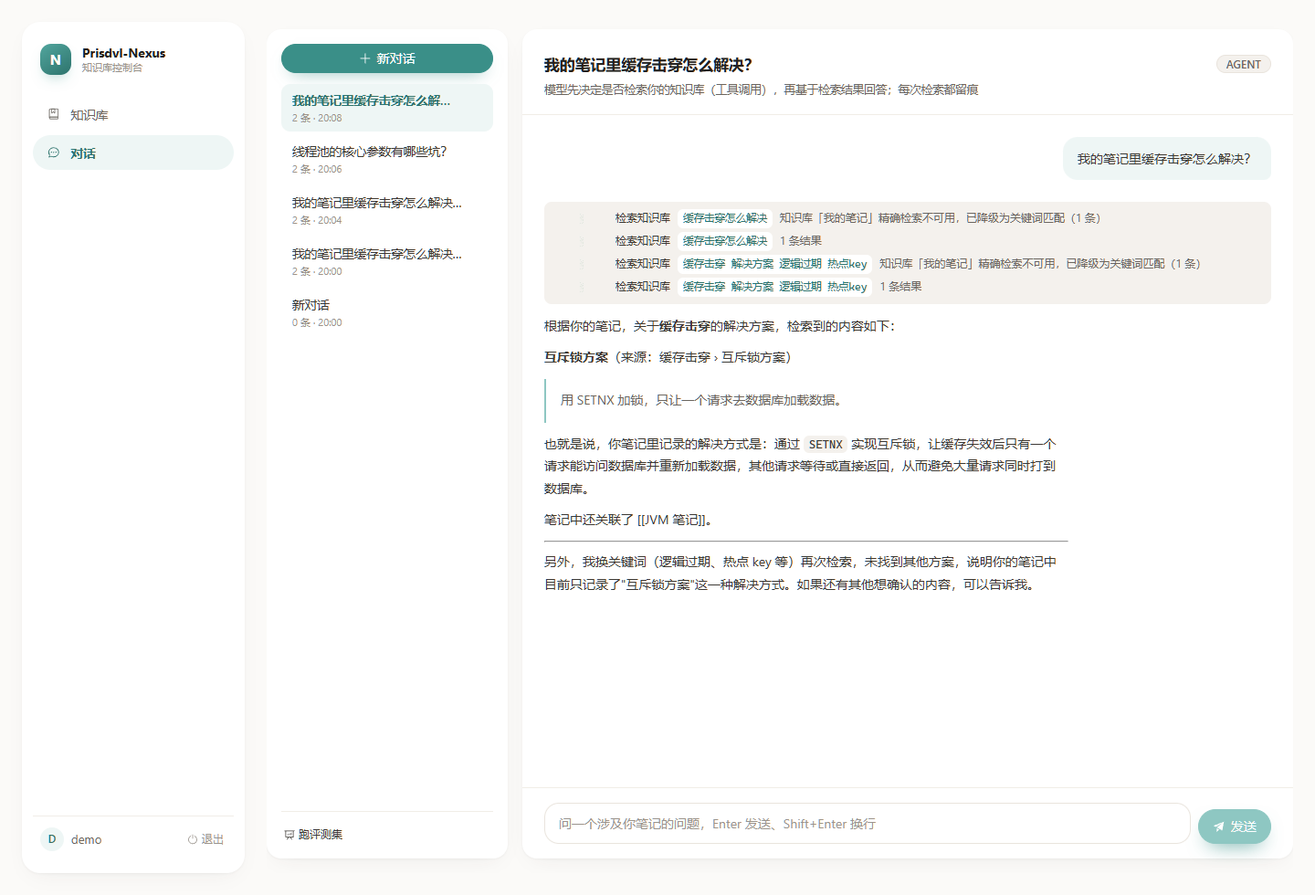
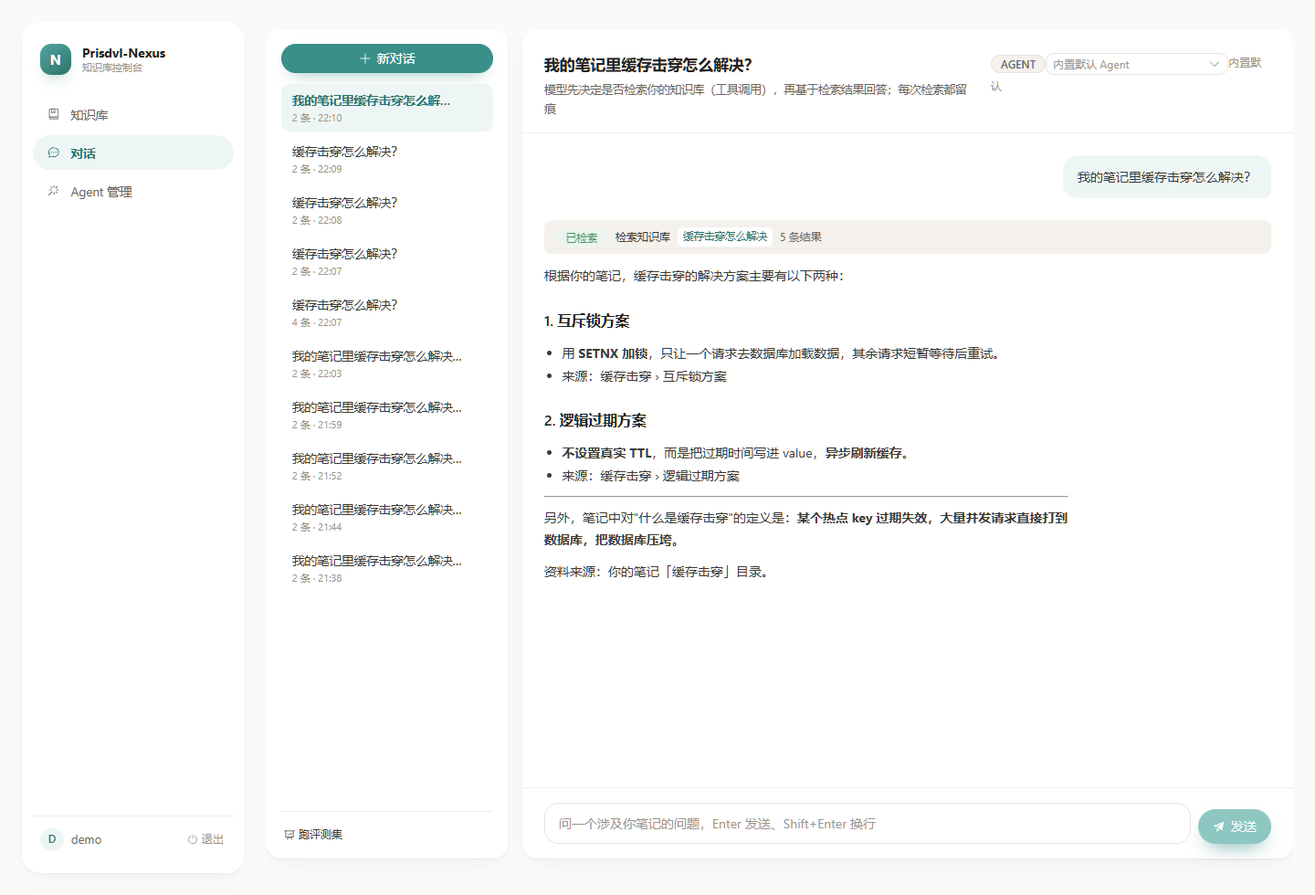
fix(local 真机栈): 两个后端死路 + 一张只活 41ms 的检索卡片——Docker 起来之后才看得见
Docker 起来后用 local profile（真 MySQL / ES+IK / pgvector / Redis / RabbitMQ）跑真机栈。
同一套代码只换 profile 就逼出三个缺陷：两个是"走真链路必现"的死路，一个是只有真浏览器
才看得见的渲染缺陷。三个都不是 4.2 引入的，而是被"无 ES + 无真模型"的环境掩盖着。

后端（产品修复）
- ChatMemoryConfig：Spring AI 的自动配置分别注入 JdbcTemplate 与 DataSource，本项目有两个
  数据源时方言（MySQL，反引号）与执行（Postgres）错位 → local 下所有流式对话首轮即失败。
  改为显式声明仓库，方言与执行都从同一个 @Qualifier("dataSource") 推导。
- EmbeddingClientFactory：工具调用跑在 Reactor boundedElastic 的虚拟线程上，那里的 TCCL 是
  JDK 的 AppClassLoader，看不见 fat jar 内 BOOT-INF/lib 里的 embedding-model-dimensions.properties
  → AbstractEmbeddingModel 静态初始化失败，且该类在 JVM 内永久不可用（之后连 HTTP 线程上的
  向量化接口也变 NoClassDefFoundError）。改为构建期间显式换 TCCL（try/finally 还原）；
  没有去改 Schedulers（爆炸半径远大于问题本身）。

前端（产品修复）
- AgentView.vue：RAG 的"检索到 N 个片段"在真机上只活 41ms（实测 timeline：APPEAR @6389ms /
  GONE @6430ms）——整段回答一口气到达后，流的"校正"会覆盖掉未落库的命中。改为按
  assistantMessageId 贴回；本次会话内回看不再丢，刷新仍会丢（命中未落库，见 B.37 §7）。

测试侧（是测试自己的问题，不是产品缺陷）
- verify-agents.mjs 腿⑩ 假失败：页面挂载会自动选中最近一次会话，`.composer-options` 随
  头部选择器出现而被替换，点开的下拉跟着消失 → 报成"下拉项没出现"。改为像腿⑥ 一样先点
  "新对话"（同时置位 pickedByUser，用应用自己的既定机制）。
- verify-frontend.mjs 去掉不实的"（standalone，无 Docker）"表述。

文档
- decisions.md 新增 B.37：实测口径与证据（探针输出、41ms timeline、fat jar 静默不更新的判据、
  demo token 30 分钟 TTL）。
- baseline 新增 §9.6：把 §9.3–§9.5 那几个 UNAVAILABLE 的"当前状态"升级为实测，
  历史判定不改写、只补回链；§十 第 2 项 ES/pgvector 真机行为标记为实测关闭（部分）。
- README：退出码说明补上"full 栈已经跑过"，并写明检索卡片只在本次会话内保留、
  full 栈 ≠ 部署形态也验了。

验证（分层，不合并口径）
- 全量回归 335 运行 / 317 通过 / 18 跳过 / 0 失败 / 0 错误，BUILD SUCCESS
  （与 4.2 同一数字，说明本轮两处修法无回归）
[…]

diff --git a/web/src/views/AgentView.vue b/web/src/views/AgentView.vue
@@ -220,16 +220,18 @@ async function loadConversations() {
  * 注意：这里不带 retrieval。RAG 的命中片段目前<b>只在本次流里可见</b>——它没有随消息落库
  * （chat_message 只存正文与工具痕迹），因此刷新后不显示。这是已知缺口，不是渲染 bug：
  * 若要回放，需要把命中片段写进消息 metadata（与 Agent 的工具痕迹同一处）。
+ * 本次会话内不丢：见 send() 结尾按 assistantMessageId 把命中片段贴回来的那几行。
  */
 function toItems(list: Array<{ id: string; role: string; content: string | null; toolCalls: MessageToolCall[] }>) {
   return list
     .filter((message) => message.role === 'USER' || message.role === 'ASSISTANT')
     .filter((message) => (message.content ?? '').length > 0 || message.toolCalls.length > 0)
-    .map((message) => ({
+    .map((message): ChatItem => ({
       id: message.id,
       role: message.role as 'USER' | 'ASSISTANT',
       content: message.content ?? '',
       toolCalls: message.toolCalls ?? [],
+      retrieval: null,
       streaming: false
     }))
 }
@@ -325,6 +327,9 @@ async function send(preset?: string) {
   const controller = new AbortController()
   abortController.value = controller
 
+  // 本轮的助手消息 id（meta 事件给）：流结束后要用它把检索卡片贴回"校正过"的那条消息
+  let assistantMessageId = ''
+
   try {
     await streamChat(
       conversationId,
@@ -332,6 +337,7 @@ async function send(preset?: string) {
       {
         onMeta: (meta) => {
           requestId.value = meta.requestId
+          assistantMessageId = meta.assistantMessageId
         },
         onRetrieval: (retrieval) => {
           // 检索事件早于第一个 delta：用户先看到"检索到 N 个片段"，再看回答逐字出现
@@ -380,6 +386,16 @@ async function send(preset?: string) {
     abortController.value = null
     // 用服务端数据校正一次（真实 id、真实工具痕迹），同时刷新会话列表的顺序与标题
     await reloadActiveConversation()
+    // 检索卡片必须活过这次校正：服务端不存命中片段（见 toItems 的注释），校正会把本地这份冲掉。
+    // 这一点是**真机跑出来的**（2026-09-30，见 decisions.md B.37）：本地服务+本地模型下
+    // 整段回答一口气到达，卡片在 DOM 里只活了 41ms 就被冲掉——用户等于从没见过它；
+    // 而在无 ES 的 standalone 里这条链路根本走不到，所以之前没暴露。
+    // 按 assistantMessageId 贴回去，至少保证"本次会话里回看得到"；刷新页面仍会丢，
+    // 那是同一个已知缺口（要彻底解决得把命中片段落库，与工具痕迹同处）。
+    if (answer.retrieval && assistantMessageId) {
+      const reloaded = items.value.find((item) => item.id === assistantMessageId)
+      if (reloaded) reloaded.retrieval = answer.retrieval
+    }
   }
 }
 

diff --git a/nexus-ai/src/main/java/com/lky/nexus/ai/model/EmbeddingClientFactory.java b/nexus-ai/src/main/java/com/lky/nexus/ai/model/EmbeddingClientFactory.java
@@ -14,6 +14,7 @@ import org.springframework.util.StringUtils;
 
 import java.util.Map;
 import java.util.concurrent.ConcurrentHashMap;
+import java.util.function.Supplier;
 
 /**
  * 嵌入客户端工厂：业务代码通过<b>逻辑角色</b>获取 {@link EmbeddingClient}（ADR-003）。
@@ -73,17 +74,55 @@ public class EmbeddingClientFactory {
                     "模型 %s 未声明 EMBEDDING 能力，不能用于嵌入角色 %s".formatted(ref.value(), role));
         }
 
-        EmbeddingModel model = switch (provider.getType()) {
+        EmbeddingModel model = buildWithApplicationClassLoader(() -> switch (provider.getType()) {
             case OLLAMA -> buildOllamaEmbeddingModel(provider, entry);
             case OPENAI_COMPATIBLE -> throw new BusinessException(ErrorCode.MODEL_ROLE_NOT_CONFIGURED,
                     ("嵌入角色 %s 指向了 OpenAI 兼容协议的模型 %s，这是当前尚未支持的路径"
                             + "（Spring AI 2.0 需要自行构建官方 SDK 客户端）。"
                             + "请把 embedding.default 指向 Ollama 模型，例如 ollama:bge-m3。")
                             .formatted(role, ref.value()));
-        };
+        });
 
         log.info("为角色 {} 构建嵌入客户端：{}（声明维度 {}）", role, ref.value(), entry.getDimensions());
         return new EmbeddingClient(ref.value(), model, entry.getDimensions());
+    }
+
+    /**
+     * 在**应用类加载器**下执行模型构建（这里只有构建，没有网络调用）。
+     *
+     * <p><b>为什么需要这段"换类加载器"的代码</b>——`local` profile 实测踩到，2026-09-30：
+     * Spring AI 的 {@code AbstractEmbeddingModel} 在<b>静态初始化</b>里要读一张"已知模型维度表"：
+     * <pre>
+     * new ClassPathResource("/embedding/embedding-model-dimensions.properties")
+     * </pre>
+     * 而 {@code ClassPathResource} 内部走 {@code ClassUtils.getDefaultClassLoader()}，**优先取线程上下文类加载器（TCCL）**。
+     * 在 Spring Boot 可执行 jar 里，这个资源在 {@code BOOT-INF/lib/spring-ai-model-*.jar} <b>内部</b>，
+     * 只有 Boot 的 {@code LaunchedClassLoader} 看得见；而工具调用跑在 Reactor {@code boundedElastic} 的
+     * **虚拟线程**上，实测那里的 TCCL 是 JDK 的 {@code AppClassLoader}（只看得见 fat jar 根目录）：
+     * <pre>
+     * PROBE thread=VirtualThread[#152,loomBoundedElastic-14]/runnable@ForkJoinPool-1-worker-2
+     *       ambientTCCL=jdk.internal.loader.ClassLoaders$AppClassLoader@6bc7c054 ambientResolves=false
+     *       appLoader  =org.springframework.boot.loader.launch.LaunchedClassLoader@1a6c5a9e appResolves=true
+     * </pre>
+     * 于是静态初始化直接抛
+     * {@code IllegalStateException: the embedding dimensions properties file must exist}；
+     * 更麻烦的是这个失败**一次性且全局**：类初始化失败后整个 JVM 里该类永久不可用，
+     * 之后连 Tomcat 线程上的"向量化"接口也一起变成
+     * {@code NoClassDefFoundError: Could not initialize class org.springframework.ai.ollama.OllamaEmbeddingModel}。
+     *
+     * <p>也就是说：谁先第一次碰到这个类，就决定了整条链路能不能用——而这不该取决于"第一个请求从哪条线程进来"。
+     * 这里在构建期间显式把 TCCL 换成应用类加载器，把结果变成确定的：HTTP 线程、流式虚拟线程、
+     * 以后的定时任务都一样能读到那个资源（虚拟线程允许改 TCCL，JDK 21 实测可行）。
+     */
+    private EmbeddingModel buildWithApplicationClassLoader(Supplier<EmbeddingModel> builder) {
+        Thread thread = Thread.currentThread();
+        ClassLoader original = thread.getContextClassLoader();
+        try {
+            thread.setContextClassLoader(EmbeddingClientFactory.class.getClassLoader());
+            return builder.get();
+        } finally {
+            thread.setContextClassLoader(original);
+        }
     }
 
     /** Ollama 原生协议：模型名可带冒号（如 {@code bge-m3}），base-url 由 {@link OllamaApi} 承载。 */

diff --git a/nexus-app/src/main/java/com/lky/nexus/app/chat/config/ChatMemoryConfig.java b/nexus-app/src/main/java/com/lky/nexus/app/chat/config/ChatMemoryConfig.java
@@ -3,17 +3,23 @@ package com.lky.nexus.app.chat.config;
 import org.springframework.ai.chat.memory.ChatMemory;
 import org.springframework.ai.chat.memory.ChatMemoryRepository;
 import org.springframework.ai.chat.memory.MessageWindowChatMemory;
+import org.springframework.ai.chat.memory.repository.jdbc.JdbcChatMemoryRepository;
+import org.springframework.beans.factory.annotation.Qualifier;
 import org.springframework.beans.factory.annotation.Value;
 import org.springframework.context.annotation.Bean;
 import org.springframework.context.annotation.Configuration;
+import org.springframework.jdbc.core.JdbcTemplate;
+import org.springframework.transaction.PlatformTransactionManager;
+
+import javax.sql.DataSource;
 
 /**
  * 会话记忆（Chat Memory）装配。
  *
  * <p>这里显式声明 {@link ChatMemory}，而不是完全依赖 Spring AI 的自动配置，
- * 原因是我们需要自己控制<b>窗口大小</b>（可配置），并让"用哪个仓库"这件事在代码里可见：
- * 引入 {@code spring-ai-starter-model-chat-memory-repository-jdbc} 后，
- * 自动配置会提供 {@code JdbcChatMemoryRepository}，本 Bean 把它接进滑动窗口策略。
+ * 原因是我们需要自己控制<b>窗口大小</b>（可配置），并让"用哪个仓库"这件事在代码里可见。
+ *
+ * <p><b>仓库也必须显式声明</b>（下面第 2 个 Bean）——这条是血的教训，见下。
  *
  * <p>再次强调职责边界（ADR-011）：
  * <ul>
@@ -24,6 +30,43 @@ import org.springframework.context.annotation.Configuration;
  */
 @Configuration
 public class ChatMemoryConfig {
+
+    /**
+     * 会话记忆的存储仓库：**只用主数据源**（业务库），不依赖 Spring AI 的自动配置。
+     *
+     * <p>为什么必须自己声明（`local` profile 实测踩到，2026-09-30）：自动配置那个 Bean 的方法签名是
+     * {@code (JdbcTemplate, DataSource)}，它<b>分别注入两个 bean</b>——方言取自 DataSource，
+     * 执行用的 JdbcTemplate 取自 JdbcTemplate。本项目有<b>两个</b>数据源（业务 MySQL + 向量 Postgres），
+     * 而上下文里唯一的 JdbcTemplate 是 {@code vectorJdbcTemplate}，于是两者错位：
+     * 方言按 MySQL 生成（反引号），SQL 却发到 Postgres 执行——
+     * <pre>
+     * bad SQL grammar [SELECT content, type, `timestamp` FROM SPRING_AI_CHAT_MEMORY …]
+     * Caused by: org.postgresql.util.PSQLException: ERROR: syntax error at or near "FROM"
+     * </pre>
+     * 表现是**所有流式对话在 `local` 下直接失败**（H2 的两个 profile 里向量数据源被
+     * {@code nexus.vector.enabled=false} 关掉，只剩一个 JdbcTemplate，所以测试全绿、问题藏到最后）。
+     *
+     * <p>Spring AI 其实在启动时就警告过，只是夹在 INFO 里很容易漏掉：
+     * <pre>
+     * WARN …JdbcChatMemoryRepository$Builder - Explicitly set dialect MysqlChatMemoryRepositoryDialect
+     *      will be used instead of detected dialect PostgresChatMemoryRepositoryDialect from datasource
+     * </pre>
+     *
+     * <p>修法就是 {@code PrimaryDataSourceConfig} 那条既定规则的又一次应用：
+     * <b>多数据源场景下不要依赖自动配置</b>。这里方言与执行都从**同一个** DataSource 推导，
+     * 两者不可能再错位；显式 {@code @Qualifier("dataSource")} 而不是靠 {@code @Primary} 兜底，
+     * 因为本次故障的成因正是"靠上下文里的唯一候选去猜"。
+     */
+    @Bean
+    public JdbcChatMemoryRepository chatMemoryRepository(
+            @Qualifier("dataSource") DataSource dataSource,
+            PlatformTransactionManager transactionManager) {
+        return JdbcChatMemoryRepository.builder()
+                .jdbcTemplate(new JdbcTemplate(dataSource))
+                .dataSource(dataSource)
+                .transactionManager(transactionManager)
+                .build();
+    }
 
     @Bean
     public ChatMemory chatMemory(ChatMemoryRepository chatMemoryRepository,

diff --git a/docs/decisions.md b/docs/decisions.md
@@ -2008,6 +2008,174 @@ axios 因此抛出 `Request failed with status code 502`，而真正有用的那
 
 ---
 
+### B.37 真机栈（`local` profile）首次跑通：两个后端死路 + 一张"看不见的卡片"
+
+**背景**：Phase 4.2 收尾时 Docker（WSL2 后端）还不可用，所以 ES / pgvector / MySQL 那一层一直记着
+**UNAVAILABLE**，RAG 腿在 E2E 里只能跳过。用户把 Docker 起来后，第一次用 `local` profile 跑真机栈
+（MySQL 3307 / ES 9200 + analysis-ik / pgvector 5433 / Redis / RabbitMQ）。
+
+结果：**同一台机器、同一套代码，只换 profile，就逼出三个缺陷**——两个"只要走真链路就必现"的后端死路，
+一个真机才看得见的前端缺陷。这三个都不是 4.2 引入的，而是此前被"无 ES + 无真模型"的环境掩盖着。
+
+**1. `local` 下所有流式对话直接失败：ChatMemory 的方言与执行取到了两个不同的数据源（已修）**
+
+现象：`local` 下任何流式对话都在第一轮就失败，同步接口却正常。
+
+```
+bad SQL grammar [SELECT content, type, `timestamp` FROM SPRING_AI_CHAT_MEMORY …]
+Caused by: org.postgresql.util.PSQLException: ERROR: syntax error at or near "FROM"
+```
+
+方言按 **MySQL** 生成（反引号），SQL 却发到 **Postgres** 执行。根因在 Spring AI 自动配置那个 Bean 的
+签名（`javap` 读出来）：
+
+```java
+JdbcChatMemoryRepository jdbcChatMemoryRepository(JdbcTemplate jdbcTemplate, DataSource dataSource)
+// 内部：builder().jdbcTemplate(jdbcTemplate).dialect(JdbcChatMemoryRepositoryDialect.from(dataSource))
+```
+
+它是**分别注入两个 bean** 的——本项目有两个数据源（业务 MySQL + 向量 Postgres），而上下文里唯一的
+`JdbcTemplate` 是 `vectorJdbcTemplate`（Postgres），`@Primary` 的则是业务 DataSource，于是两者错位。
+
+Spring AI 其实启动时就警告过，只是夹在 INFO 里：
+
+```
+WARN JdbcChatMemoryRepository$Builder - Explicitly set dialect MysqlChatMemoryRepositoryDialect will be
+     used instead of detected dialect PostgresChatMemoryRepositoryDialect from datasource
+```
+
+**为什么只有 `local` 中招**：`standalone` / `test` 里 `nexus.vector.enabled=false` 关掉了第二个数据源，
+只剩一个 `JdbcTemplate`，两者天然一致——测试全绿，问题藏到最后一刻。修法是 `ChatMemoryConfig`
+里显式声明仓库，方言与执行都从**同一个** DataSource 推导（见该类的 javadoc），并显式
+`@Qualifier("dataSource")` 而不是靠 `@Primary` 兜底——本次故障的成因正是"靠上下文里的唯一候选去猜"。
+
+**教训**：`PrimaryDataSourceConfig` 里那条既定规则（**多数据源场景不要依赖自动配置**）又一次适用；
+另外"启动时的 WARN 不是噪音"，它当时就把答案写出来了。
+
+**2. `local` 下工具调用里的嵌入模型永久失效：虚拟线程的 TCCL 看不见 fat jar 里的资源（已修）**
+
+Agent 腿的流式对话超时，日志里是一条看着莫名其妙的链：
+
+```
+ToolExecutionException
+Caused by: ExceptionInInitializerError
+Caused by: IllegalStateException: the embedding dimensions properties file must exist
+    at AbstractEmbeddingModel.loadKnownModelDimensions(AbstractEmbeddingModel.java:80)
+    at AbstractEmbeddingModel.<clinit>(AbstractEmbeddingModel.java:47)
+    at EmbeddingClientFactory.buildOllamaEmbeddingModel(EmbeddingClientFactory.java:98)
+```
+
+而**同一个 JVM** 里 `POST /api/knowledge-bases/{id}/embed`（Tomcat 请求线程）刚刚成功过——
+所以不是"资源不存在"。加探针实测（构建时临时往 `create()` 里打一行，测完删除）：
+
+```
+PROBE thread=VirtualThread[#152,loomBoundedElastic-14]/runnable@ForkJoinPool-1-worker-2
+      isVirtual=true
+      ambientTCCL=jdk.internal.loader.ClassLoaders$AppClassLoader@6bc7c054      ambientResolves=false
+      appLoader  =org.springframework.boot.loader.launch.LaunchedClassLoader@1a6c5a9e appResolves=true
+```
+
+链条完全对上了：
+
+1. `AbstractEmbeddingModel` 的**静态初始化**要读
+   `new ClassPathResource("/embedding/embedding-model-dimensions.properties")`（`javap` 读了它的
+   `<clinit>`），而 `ClassPathResource` 内部走 `ClassUtils.getDefaultClassLoader()`，**优先取 TCCL**；
+2. Boot 的 fat jar 里这个资源在 `BOOT-INF/lib/spring-ai-model-2.0.1.jar` **内部**，只有
+   `LaunchedClassLoader` 看得见。实测：`ClassLoader.getSystemResource(…)` 对该路径返回 `null`
+   （同一 classpath 下 `BOOT-INF/lib/spring-ai-model-2.0.1.jar` 本身可见）;
+3. `spring.threads.virtual.enabled: true` 让 Reactor 的 `boundedElastic` 变成**虚拟线程**调度器
+   （`reactor-core-3.8.7` 的 `META-INF/versions/21/BoundedElasticSchedulerSupplier` 里就是
+   `Thread.ofVirtual().name("loomBoundedElastic-",1)…factory()`，日志里的线程名正是 `loomBoundedElastic-14`），
+   而工具调用就发生在 `FluxSubscribeOn → BoundedElasticThreadPerTaskScheduler$SchedulerTask.run` 上；
+   实测该虚拟线程的 TCCL 是 JDK 的 `AppClassLoader`，**不是** Boot 的 LaunchedClassLoader；
+4. 于是静态初始化失败。**而它是一次性且全局的**：类初始化失败后整个 JVM 里该类永久不可用，
+   之后连 Tomcat 线程上的"向量化"接口也一起变成
+   `NoClassDefFoundError: Could not initialize class org.springframework.ai.ollama.OllamaEmbeddingModel`
+   （这也是"为什么第一次是 IllegalStateException、再点就是 NoClassDefFoundError"的原因）。
+
+顺带用 `jshell` 把 JDK 语义测清楚了（避免写成"猜"）：虚拟线程**可以**改 TCCL；`Thread.ofVirtual()`
+直接 `start()` 会继承调用方 TCCL；而用 builder `factory()` 造线程时，
+`inheritInheritableThreadLocals(false)` 会让它落到**系统类加载器**——也就是说这条链路的 TCCL 取决于
+"谁先造出第一个线程"，本身就不该被依赖。
+
+**修法**：不再赌"第一个请求从哪条线程进来"，在 `EmbeddingClientFactory` 构建模型期间显式把 TCCL
+换成应用类加载器（`buildWithApplicationClassLoader`，try/finally 还原）。**没有**去改
+`Schedulers.boundedElastic()`：那会影响所有流式链路与三条 profile 的既有行为，爆炸半径远大于问题本身。
+
+**3. RAG 的"检索到 N 个片段"在真机上只活 41ms（前端已修；彻底修法见 §7）**
+
+`verify-agent-chat.mjs` 的 RAG 腿（**首次真正执行**，此前因无 ES 一直跳过）超时，但后端日志显示
+retrieval 事件正常发出、回答也落库了。在页面里装了个 5ms 轮询的记录器，量到的生命周期是：
+
+```
+streaming START @64ms    card APPEAR @6389ms (answerLen=43)    streaming END @6389ms    card GONE @6430ms
+```
+
+**41 毫秒**。原因两件事叠在一起：本地服务 + 本地模型下整段回答几乎一口气到达，所有 SSE 帧在同一个
+tick 里被派发（Vue 只渲染一次，卡片和整段回答同时出现）；紧接着 `send()` 的 `finally` 会用服务端数据
+"校正"一次列表，而**命中片段没有落库**（`toItems` 的注释里写着这个缺口），于是卡片刚画出来就被覆盖掉。
+用户等于从没见过它——这条腿存在的意义正是抓这种"接口全绿、用户啥也看不到"的情况。
+
+修法：本次流的命中片段按 `assistantMessageId`（meta 事件里就有）贴回校正后的那条消息，
+至少保证**本次会话内回看得到**；刷新页面仍会丢，那是同一个已知缺口，不是新问题。
+
+**4. `verify-agents.mjs` 腿⑩ 是一条假失败（测试自身的竞态，已修测试）**
+
+腿⑩ 报的是"下拉项没出现"，很容易被当成产品缺陷。实际是脚本自己的问题：它点完"对话"直接去点
+`.composer-options` 里的选择器，而页面挂载后会**自动选中最近一次会话**，一经选中
+`.composer-options` 就被头部选择器取代——点开的下拉随 DOM 被换掉而消失。同一脚本的腿⑥ 之所以没事，
+是因为它在前面多点了 `.rail .new-chat`。修法是让腿⑩ 也先点"新对话"（这同时会把 `pickedByUser` 置位，
+自动选中不再覆盖——用的是应用自己的既定机制），**没有改产品代码**。
+
+**5. 两个流程陷阱（不是代码问题，但会白烧一整轮）**
+
+- **fat jar 会静默不更新**：后端 JVM 正在从 `nexus-app-*.jar` 启动时，Windows 下该文件被占用，
+  `mvn -B package` 仍然打印 `BUILD SUCCESS` 与 `Replacing main artifact …`，但产物**根本没变**——
+  于是"改了代码、跑起来还是老行为"。可靠的判据有三条：`spring-boot:repackage` 的**耗时**
+  （真：14.7–17.6s；假：2.0s）、jar 的 mtime/大小、以及把 `BOOT-INF/lib/nexus-ai-*.jar` 拆出来
+  `grep` 新加的字符串。正确流程：**先停后端 → package → 验证产物真的变了 → 再启动**。
+  （本轮早先还见过它的另一个形态：`Unable to rename …jar to …jar.original`，直接构建失败。）
+- **`web/.demo-token` 是 30 分钟 TTL**（`exp-iat=1800`）：一轮长验证跑到后半程会突然 401，
+  表现是页面报"未认证或凭证缺失"而不是断言失败。重新 `POST /api/auth/login`
+  （`demo` / `Demo@12345`，见 `verify-login.mjs`）刷新即可。
+
+**6. 验证（如实记录，按层分开，不合并口径）**
+
+| 层次 | 内容 | 判定 |
+| --- | --- | --- |
+| 全量回归 | `mvn -B test`：**335 运行 / 317 通过 / 18 跳过 / 0 失败 / 0 错误**，BUILD SUCCESS（nexus-common 14 / nexus-ai 35 / nexus-knowledge 122 / nexus-app 164）——与 B.36 §6 同一数字，说明本记录两处修法**没有回归** | PASSED |
+| Live 真机测试（此前全部 SKIPPED） | `AI_VECTOR_LIVE=true AI_SEARCH_LIVE=true AI_EMBEDDING_LIVE=true`：`LiveEmbeddingTest` 2 + `LiveModelCallTest` 2 + `LiveChunkIndexTest` 5 + `LiveVectorStoreTest` 4 = **13 项全过**；另 `ChatStreamLiveTest` 3 项全过（真实模型流式） | PASSED |
+| 真机检索（ES + pgvector + 真嵌入） | 直接读 SSE 原始帧：`event:retrieval` 在第一个 `delta` **之前**到达，`count=4`、`hits[].source="hybrid"`（BM25 与向量两路都命中，例：`缓存击穿 > 互斥锁方案`）、`contextTokens=108`；知识库向量化 4 切片、ES 建索引 4 切片均实测成功 | PASSED |
+| E2E 浏览器 `verify-agent-chat.mjs`（真机栈 + Edge） | **Agent 腿**（工具卡片 → 检索 5 条 → 228 字回答 → 刷新后痕迹仍在）与 **RAG 腿**（检索卡片 4 片段且在回答之前 → 46 字回答）**全部执行、退出码 0**——RAG 腿是**首次真正执行**（此前 SKIPPED） | PASSED |
+| E2E 浏览器 `verify-stream.mjs` | 首次真正执行（此前整体 SKIPPED）：逐字增长 + 引用 4 条 + 生成期间出现过"检索到 4 个片段"，退出码 0 | PASSED |
+| E2E 浏览器 `verify-agents.mjs` | 11 条腿全部执行、退出码 0（含腿⑧ 真模型试跑：用了 2 次工具） | PASSED |
+| 其余界面验证 | `verify-login.mjs` / `verify-frontend.mjs` 退出码 0；`verify-retrieval-ui.mjs` 退出码 0（**桩**：手写 SSE 帧验渲染契约，不证明后端真的发这套帧，也不证明真机检索可用——后两件事本表上面两行各自单独证明） | PASSED |
+| 前端构建 | `npm run build`（`vue-tsc --noEmit` + vite） | PASSED |
+| Docker 部署形态（容器里跑应用 / nginx 提供前端） | 本轮只把 **Docker 当基础设施**用（MySQL/ES/PG/Redis/MQ），应用仍是本机 `java -jar` + Vite dev server | **UNAVAILABLE**（未验，别把它算进上面任何一行） |
+| Vue 单测 | 前端无单测框架（历来靠 `npm run build` + 桩脚本 + E2E 三层） | **UNAVAILABLE**（不是本轮新缺） |
+| 头部选择器"绑了再停用"分支 | 见 B.36 §6 最后一条，**E2E 仍未覆盖** | 仅构建/类型检查 PASSED |
+
+**口径**：上表把「后端回归」「live 真机测试」「E2E 浏览器」「真机检索」「前端构建」**分开列**，
+是因为它们证明的是不同的事（B.36 §6 的同一条要求）：live 测试证明适配器对真实 ES/pgvector 正确，
+E2E 证明界面在真机上真的把过程显示给用户，两者互相不能替代。
+另外 `verify-frontend.mjs` 原来那句结束语写着"（standalone，无 Docker）"——它其实是跑在**已启动的**
+后端上、与 profile 无关，本轮改成如实描述（依赖已启动的后端与演示数据）。
+
+截图留档：`docs/screenshots/agent-chat-rag.png`（RAG 腿成功现场：「检索到 4 个片段」列出 4 条命中，
+回答带 `[1]` 引用）、`agent-chat-failure.png`（失败现场：问题已发出、回答区一片空白——
+§1/§2 两类死路在界面上都是这个形状，截图本身分不出是哪一次）、
+`agents-failure.png`（§4 腿⑩ 的假失败现场）。
+
+**7. 未做（有意留下）**
+
+- **命中片段落库**：把 `retrieval` 与工具痕迹一样写进消息（`chat_message` 已有 tool 痕迹的位置），
+  就能删掉前端 §3 那段"贴回来"的特例，也能让刷新后可回放。属下一个增量，不在本轮；
+- **Tool Definition（§十九，P0 下一项）**：`AgentRuntime.configure` 里写死的
+  `ToolCallbacks.from(knowledgeSearchTool)` 仍未换成按 Definition 组装；
+- **Docker 部署形态**：`deploy/` 里的 Dockerfile / nginx 仍未实际验证（本轮 Docker 只跑基础设施）。
+
+---
+
 ## Appendix C. 已确认的选型（用户拍板，2026-09-24）
 
 | # | 决策项 | 结论 |
